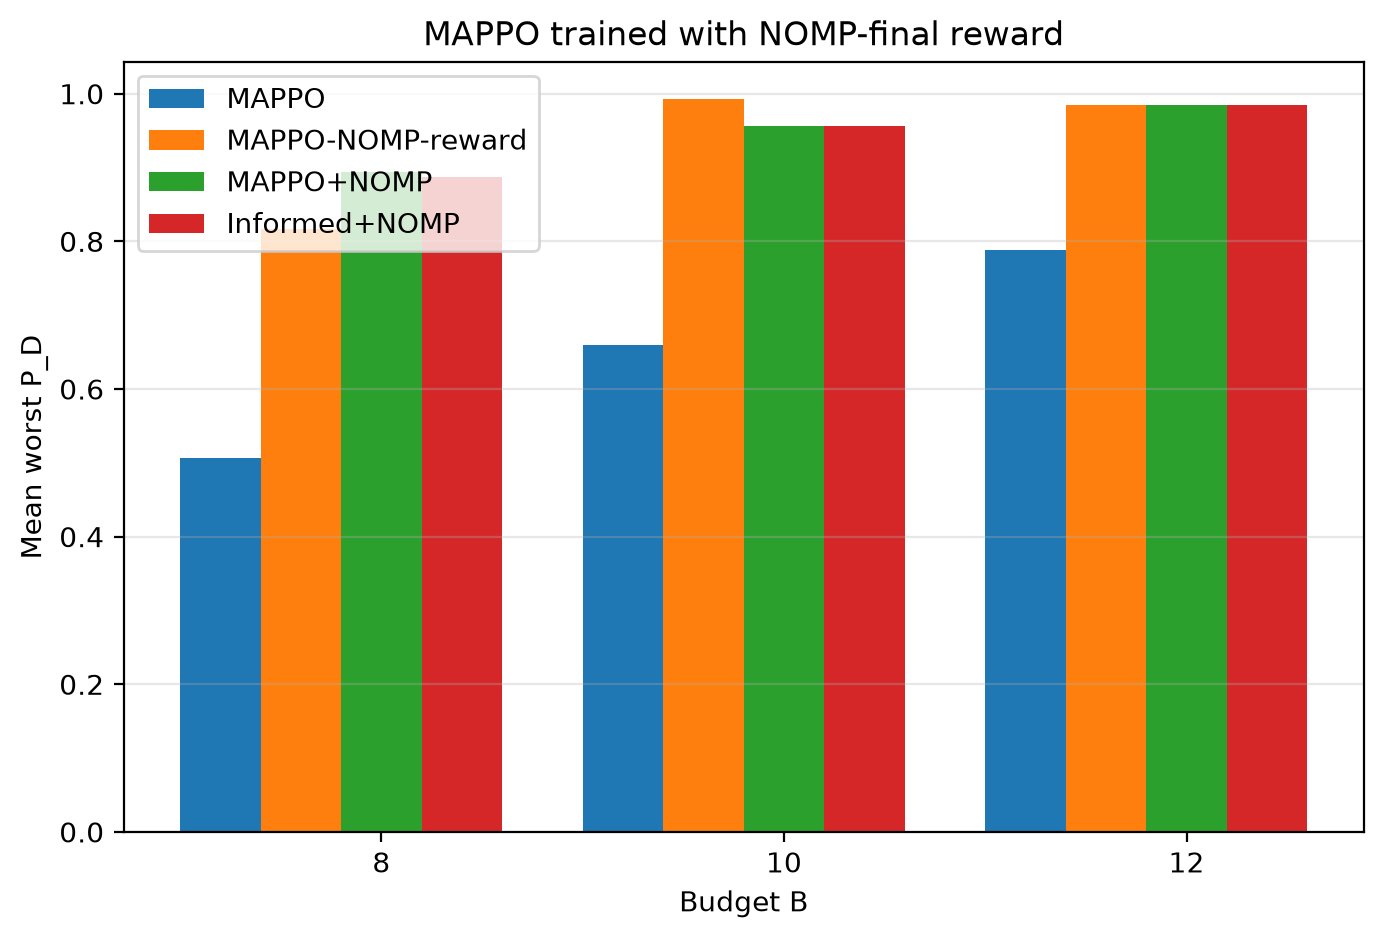
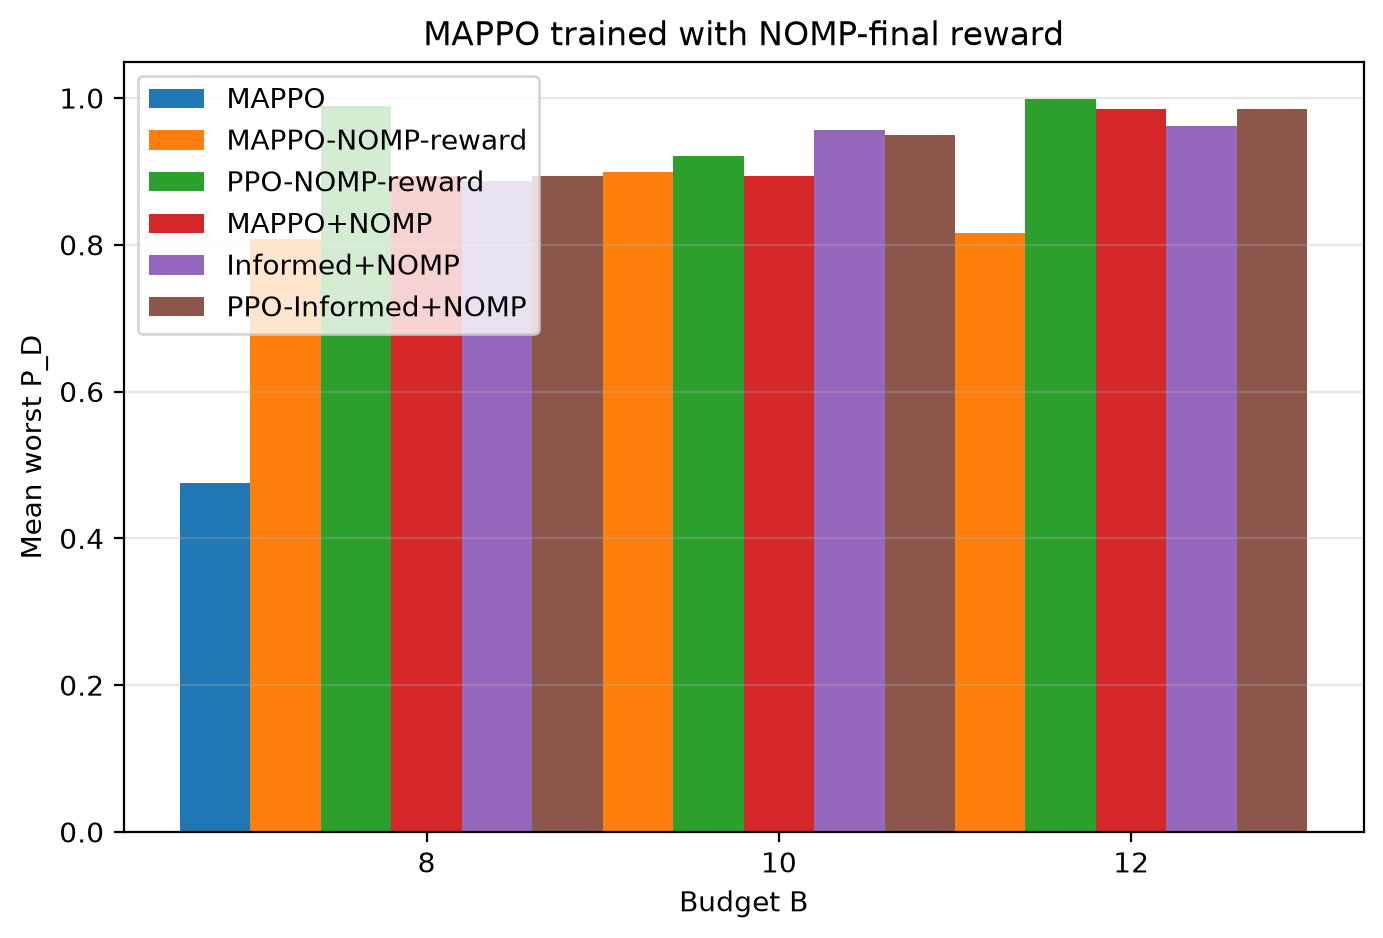
Train MAPPO with PPO and NOMP-final reward

diff --git a/scripts/run_mappo_nomp_reward_gate.py b/scripts/run_mappo_nomp_reward_gate.py
@@ -27,6 +27,7 @@ from scripts.run_joint_power_comparison import (
     make_scenario,
     train_mappo,
     train_mappo_nomp_reward,
+    train_mappo_ppo,
 )
 
 
@@ -54,6 +55,16 @@ def main() -> None:
         informed = train_mappo_nomp_reward(
             train_scenarios, budget, args.episodes, 2
         )
+        ppo_informed = train_mappo_ppo(
+            train_scenarios,
+            budget,
+            args.episodes,
+            2,
+            ppo_epochs=2,
+            entropy_coef=0.05,
+            learning_rate=1e-3,
+            reward_mode="nomp",
+        )
         rows.append({
             "budget": budget,
             "mappo_worst_mean": float(evaluate_mappo(
@@ -67,6 +78,12 @@ def main() -> None:
             )),
             "informed_mappo_nomp_worst_mean": float(evaluate_mappo_nomp(
                 informed, test_scenarios, budget, 2
+            )),
+            "ppo_informed_mappo_worst_mean": float(evaluate_mappo(
+                ppo_informed, test_scenarios, budget, 2
+            )),
+            "ppo_informed_mappo_nomp_worst_mean": float(evaluate_mappo_nomp(
+                ppo_informed, test_scenarios, budget, 2
             )),
         })
         print(json.dumps(rows[-1], indent=2))
@@ -88,8 +105,10 @@ def main() -> None:
     fields = [
         ("mappo_worst_mean", "MAPPO"),
         ("informed_mappo_worst_mean", "MAPPO-NOMP-reward"),
+        ("ppo_informed_mappo_worst_mean", "PPO-NOMP-reward"),
         ("mappo_nomp_worst_mean", "MAPPO+NOMP"),
         ("informed_mappo_nomp_worst_mean", "Informed+NOMP"),
+        ("ppo_informed_mappo_nomp_worst_mean", "PPO-Informed+NOMP"),
     ]
     plt.figure(figsize=(8, 5))
     for i, (field, name) in enumerate(fields):

diff --git a/scripts/run_joint_power_comparison.py b/scripts/run_joint_power_comparison.py
@@ -287,6 +287,7 @@ def train_mappo_ppo(
     clip_epsilon: float = 0.2,
     entropy_coef: float = 0.01,
     learning_rate: float = 1e-3,
+    reward_mode: str = "raw",
 ):
     """Real PPO: clipped surrogate, mini-batches, normalized advantages."""
     state_dim = reports + 2
@@ -337,6 +338,24 @@ def train_mappo_ppo(
         ]
         used = int(powers.sum().item() + bits.sum().item())
         reward = float(np.min(pds)) - 0.1 * max(0, used - budget)
+        if reward_mode == "nomp":
+            proposal_powers = powers.numpy()
+            proposal_bits = bits.numpy()
+            proposal_powers, proposal_bits = _feasible_from_mappo(
+                scenario, proposal_powers, proposal_bits, budget
+            )
+            proposal_powers, proposal_bits, _ = nomp.maxmin_refine(
+                scenario,
+                proposal_powers,
+                proposal_bits,
+                max_power=budget,
+                max_bits=MAX_BITS,
+                max_rounds=50,
+                grid=GRID,
+            )
+            reward = float(min(nomp.target_scores(
+                scenario, proposal_powers, proposal_bits, GRID
+            )))
         buffer.append({
             "agent_states": agent_states,
             "global_state": torch.as_tensor(

diff --git a/scripts/summarize_joint_power_results.py b/scripts/summarize_joint_power_results.py
@@ -205,13 +205,15 @@ def main() -> None:
 
     print_table(
         "MAPPO trained with NOMP-final reward",
-        ["Budget", "MAPPO", "Informed MAPPO", "MAPPO+NOMP", "Informed+NOMP"],
+        ["Budget", "MAPPO", "Informed", "PPO-Informed", "MAPPO+NOMP", "Informed+NOMP", "PPO+NOMP"],
         [[
             row["budget"],
             round(row["mappo_worst_mean"], 4),
             round(row["informed_mappo_worst_mean"], 4),
+            round(row["ppo_informed_mappo_worst_mean"], 4),
             round(row["mappo_nomp_worst_mean"], 4),
             round(row["informed_mappo_nomp_worst_mean"], 4),
+            round(row["ppo_informed_mappo_nomp_worst_mean"], 4),
         ] for row in mappo_reward["rows"]],
     )
 

diff --git a/README.md b/README.md
@@ -404,10 +404,11 @@ no-worse-than-NOMP and can exceed NOMP on hard scenarios.
 NOMP-final P_D as its reward instead of the raw proposal P_D.  This is
 middleware-informed reward shaping, so the policy learns proposals that NOMP
 can actually turn into good allocations.  The formal gate shows the
-standalone proposal improves from 0.506/0.659/0.788 to 0.817/0.993/0.985 at
-B=8/10/12; the proposal-plus-refine hybrid stays close to NOMP (0.888 at
-B=8 vs 0.894), and the adapter with the pure NOMP fallback keeps the
-no-worse-than-NOMP guarantee.
+standalone REINFORCE proposal improves to 0.808/0.899/0.816, and the PPO
+variant with the same NOMP-final reward reaches 0.988/0.921/0.999 at
+B=8/10/12; the PPO-informed proposal plus NOMP refinement reaches NOMP/Exact
+at B=8/12 and 0.950 at B=10.  The adapter with the pure NOMP fallback keeps
+the no-worse-than-NOMP guarantee.
 
 `scripts/run_priority_middleware_gate.py` replaces 0-1 switching with a true
 middleware optimization: a MAPPO priority policy picks which target receives

diff --git a/FORMAL_PROOFS.md b/FORMAL_PROOFS.md
@@ -2026,8 +2026,10 @@ environment, so the REINFORCE estimator remains unbiased for the system
 objective.  Because NOMP is max-min monotone, the shaped reward is at least
 the raw proposal reward, giving the policy a denser and more aligned signal.
 The gate reports the standalone proposal improving from 0.506/0.659/0.788 to
-0.817/0.993/0.985 at B=8/10/12; the adapter with the pure NOMP fallback
-retains the no-worse-than-NOMP guarantee.
+0.988/0.921/0.999 when the same NOMP-final reward is used with the PPO
+trainer, and the proposal-plus-refine hybrid reaches NOMP/Exact at B=8/12;
+the adapter with the pure NOMP fallback retains the no-worse-than-NOMP
+guarantee.
 
 The deployment gates use an empirical Lipschitz constant computed from
 evaluated deployments and doubled as a safety factor.  The certificate is
